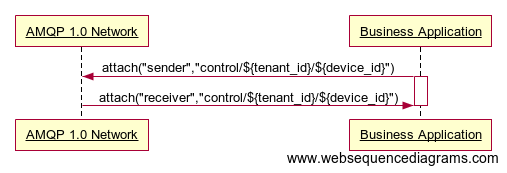
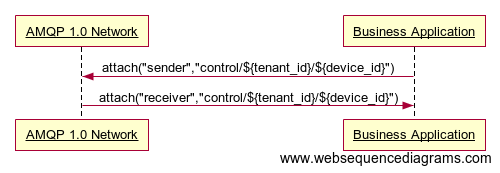
Update Command & Control API to reflect usage of disposition frames.

diff --git a/site/content/api/Command-And-Control-API.md b/site/content/api/Command-And-Control-API.md
@@ -3,140 +3,109 @@ title = "Command & Control API"
 weight = 415
 +++
 
-The *Command and Control* API is used by *Business Applications* to send **command** or **notification command** messages to devices connected to Hono. 
+The *Command & Control* API of Eclipse Hono&trade; is used by *Business Applications* to send commands to connected devices.
 
-**Command** messages can be used to execute operations on devices, e.g. updating a configuration property, installing a software component or activating an actuator.
-Commands are bidirectional, i.e. a device receiving a command is expected to send a response to it.
-
-**Notification command** messages are unidirectional and cannot be responded.
+Commands can be used to trigger actions on devices. Examples include updating a configuration property, installing a software component or switching the state of an actuator.
 <!--more-->
 
-{{% note %}}
-This API has been added in Hono 0.6. Previous versions do not support nor implement the Command & Control API.
-The notification commands are fully specified and the implementation will be added during the development of Hono 0.8.
-{{% /note %}}
+Hono distinguishes two types of commands. The first type is *one-way* only. In this case the sender of the command does not expect the device to send back a message in response to the command. This type of command is referred to as a *one-way command* in the remainder of this page. One-way commands may be used to e.g. *notify* a device about a change of state.
+
+The second type of commands expects a *response* to be sent back from the device as a result of processing the command. In this case the response contains a *status* code which indicates whether the command could be processed successfully. If so, the response may also include data representing the result of processing the command. This type of command is plainly referred to as a *command* because it represents the default case.
 
 The Command & Control API is defined by means of AMQP 1.0 message exchanges, i.e. a client needs to connect to Hono using AMQP 1.0 in order to invoke operations of the API as described in the following sections. Throughout the remainder of this page we will simply use AMQP when referring to AMQP 1.0.
 
-There is also a description of Command & Control [at the conceptual level]({{< relref "/concepts/command-and-control.md" >}}) 
-and the [Getting Started]({{< ref "getting-started" >}}) guide contains a walk through example.
+There is also a description of Command & Control [at the conceptual level]({{< ref "/concepts/command-and-control.md" >}}) 
+and the [Getting Started]({{< ref "/getting-started.md" >}}) guide contains a walk through example.
 
-# Preconditions
-## Preconditions for sending a command or notification command
-
-1. The *Business Application* has established an AMQP connection with the AMQP 1.0 Network.  
-2. The *Business Application* has established an AMQP link in role *sender* with the target address `control/${tenant_id}/${device_id}`, where `${device_id}` is the ID of the device to send messages to and `${tenant_id}` is the ID of the tenant that the device belongs to.
-
-**Link establishment**
-
-The following sequence diagram shows the necessary links that need to be established:
-
-![Send Command Preconditions](../command_control_send_preconditions.png)
-
-## Preconditions for receiving a command response
-
-*Command* messages (in contrast to *notification command* messages) need to be responded by the device. For this purpose,
-the *Business Application* needs to open a receiver link as precondition: 
-
-1. The *Business Application* has established an AMQP link in role *receiver* with the source address `control/${tenant_id}/${reply-id}`.
-This link is used by the *Business Application* to receive the response of the executed command. This link’s source address is also referred to as `the reply-to address` for the request messages. 
-2. The `${reply-id}` may be any arbitrary string chosen by the client. 
-
-### Choosing a strategy for building the receiver link address
-
-While the `${reply-id}` can be completely chosen by the client, the specific use case for sending commands may influence 
-how it should be set.
-Thus following hints for choosing the right `${reply-id}` may be helpful:
-
-- if only one command response is expected from the device, the `${reply-id}` could be set to the `${device_id}` plus an arbitrary string to scope the command sender instance and closed again after receiving the response.
-- if several command responses are expected from the device (e.g. since multiple commands were or will be sent to it), such a link should usually remain open after the reception of any response. 
-- if all command responses for the `${tenant_id}` shall be received in the application,  the `${reply-id}` could be set to just an arbitrary (short) string to scope the command sender instance (without the `${device_id}`). Such a link should usually remain open after the reception of any response.
-
-
-**Link establishment**
-
-The following sequence diagram shows the necessary links that need to be established to enable sending a command response to the Business Application:
-
-![Send Command](../command_control_receive_preconditions.png)
-
-# Outcomes for sending a command or notification command
-Commands and notification commands that are forwarded by the AMQP 1.0 network to a protocol adapter need to be responded with one of the following outcomes:
-
-| Processing in protocol adapter                         | AMQP outcome                  |
-|--------------------------------------------------------|------------------------------ |
-| Bad command                                            | Rejected ("hono:bad-request") |
-| Device not connected (anymore)                         | Release                       | 
-| Command approved (will be tried to deliver to device)  | Accepted                      | 
-
-Depending on the strategy for the receiver link address (see [Strategy for building the receiver link address]({{< relref "#choosing-a-strategy-for-building-the-receiver-link-address">}}) ), the *Business application* may want to close the response receiver
-link again if the outcome was not set to `Accepted`.
+{{% note %}}
+The Command & Control API has been added in Hono 0.6. Prior versions do neither support nor implement it. One-way commands have been added in Hono 0.8.
+{{% /note %}}
 
 
 # Operations
 
-The following API defines operations that can be used by *Business Applications* to send commands (which get a response 
-in return) or notification commands to devices over an AMQP 1.0 Network.
+The following API defines operations that can be used by *Business Applications* to send commands to devices over an AMQP 1.0 Network.
 
-## Send a Notification Command
+## Send a One-Way Command
 
-Business Applications use this operation to send a notification command to a device.
+Business Applications use this operation to send a command to a device for which they do not expect to receive a response from the device.
 
-A notification command cannot be responded by the device so the result of this operation is purely based on the outcome of sending
-it to the AMQP 1.0 network (see [Outcomes]({{< relref "#outcomes-for-sending-a-command-or-notification-command">}})).
- 
-Note that the outcome is usually determined by the receiving protocol adapter, which is omitted here for simplicity.
+**Preconditions**
 
-To send a notification command to a device, the first precondition needs to be fulfilled.
+1. The *Business Application* has established an AMQP connection with the AMQP 1.0 Network.
+2. The *Business Application* has established an AMQP link in role *sender* with the target address `control/${tenant_id}/${device_id}`, where `${device_id}` is the ID of the device to send messages to and `${tenant_id}` is the ID of the tenant that the device belongs to.
 
-The following sequence diagram shows the message flow with a successful outcome:
+The following sequence diagram illustrates the establishment of the required link:
 
-![Send Notification Command successful outcome](../command_control_notification_Success.png)
-
-The following sequence diagram shows the message flow with an unsuccessful outcome:
-
-![Send Notification Command unsuccessful outcome](../command_control_notification_Unsuccessful_outcome.png)
+![Send One-Way Command Preconditions](../command_control_send_preconditions.png)
 
 **Message Format**
 
-The following table provides an overview of the properties the *Business Application* needs to set on a notification command message.
+The following table provides an overview of the properties the *Business Application* needs to set on a one-way command message.
 
 | Name             | Mandatory | Location                 | Type         | Description |
 | :--------------- | :-------: | :----------------------- | :----------- | :---------- |
-| *subject*        | yes       | *properties*             | *string*     | MUST contain the notification command name to be executed by a device. |
+| *subject*        | yes       | *properties*             | *string*     | The name of the command to be executed by the device. |
 | *content-type*   | no        | *properties*             | *string*     | If present, MUST contain a *Media Type* as defined by [RFC 2046](https://tools.ietf.org/html/rfc2046) which describes the semantics and format of the command's input data contained in the message payload. However, not all protocol adapters will support this property as not all transport protocols provide means to convey this information, e.g. MQTT 3.1.1 has no notion of message headers. |
-| *message-id*     | yes       | *properties*             | *string*     | MUST contain an identifier that uniquely identifies the message at the sender side. |
+| *message-id*     | yes       | *properties*             | *string*     | An identifier that uniquely identifies the message at the sender side. |
 
-The following property must **NOT** be set for a notification command message (to distinguish it from a command message):
+The command message MAY contain arbitrary payload to be sent to the device in a single AMQP *Data* section. The value of the message's *subject* property may provide a hint to the device regarding the format, encoding and semantics of the payload data.
 
-| Name             | Mandatory       | Location                 | Type         |
-| :--------------- | :---------------| :----------------------- | :----------- |
-| *reply-to*       | must NOT be set | *properties*             | *string*     |
+Hono indicates the outcome of the operation by means of the following AMQP delivery states:
+
+| Delivery State | Description                                      |
+| :------------- | :----------------------------------------------- |
+| `accepted`    | The command has been delivered to the device for processing. |
+| `released`    | The command has not been delivered to the device because the device is (currently) not connected. |
+| `rejected`    | The command has not been delivered to the device because it does not contain all required information. |
+
+**Note** that Hono relies on the particular protocol adapter to deliver commands to devices. Depending on the used transport protocol and the adapter's implementation, the `accepted` outcome may thus indicate any of the following:
+
+- An *attempt* has been made to deliver the command to the device. However, it is unclear if the device has received (or processed) the command.
+- The device has acknowledged the reception of the command but has not processed the command yet.
+- The device has received and processed the command.
+
+**Examples**
+
+The following sequence diagram shows the successful delivery of a command to a device:
+
+![Successfully send a One-Way Command](../command_control_one_way_success.png)
+
+The following sequence diagram shows how the delivery of a command fails because the device is not connected:
+
+![Device not connected](../command_control_device_not_connected.png)
+
+The following sequence diagram illustrates how a malformed command sent by a *Business Application* gets rejected:
+
+![Malformed Command message](../command_control_malformed_message.png)
 
 
-A notification command message MAY contain arbitrary payload to be sent to the device in an AMQP Data section. The value of the notification command message's *subject* value may provide a hint to the device regarding the format, encoding and semantics of the payload data.
+
+## Send a (Request/Response) Command
+
+*Business Applications* use this operation to send a command to a device for which they expect the device to send back a response.
 
 
+**Preconditions**
 
+<a name="receiver-link-precondition"></a>
 
-## Send a Command
+1. The *Business Application* has established an AMQP connection with the AMQP 1.0 Network.
+2. The *Business Application* has established an AMQP link in role *sender* with the target address `control/${tenant_id}/${device_id}`, where `${device_id}` is the ID of the device to send messages to and `${tenant_id}` is the ID of the tenant that the device belongs to.
+3. The *Business Application* has established an AMQP link in role *receiver* with the source address `control/${tenant_id}/${reply_id}`.
+This link is used by the *Business Application* to receive the response to the command from the device. This link’s source address is also used as the `reply-to` address for the request messages. The `${reply_id}` may be any [arbitrary string]({{< relref "#strategies-for-building-the-receiver-link-address" >}}) chosen by the application.
 
-Business Applications use this operation to send a command to a device.
-Depending on the outcome of sending the command to the AMQP 1.0 network, the application either expects a response from the device 
-(to the response receiver link) or closes the receiver link again.
+**Link establishment**
 
-Note that the outcome is usually determined by the receiving protocol adapter, which is omitted here for simplicity.
+The following sequence diagram illustrates the establishment of the required sender link:
 
-To send a command to a device, both preconditions need to be fulfilled.
+![Send Command Preconditions](../command_control_send_preconditions.png)
 
-The following sequence diagram shows the message flow with a successful outcome:
+The following sequence diagram illustrates the establishment of the required receiver link:
 
-![Send Command successful outcome](../command_control_Success.png)
+![Receive Response Preconditions](../command_control_receive_preconditions.png)
 
-The following sequence diagram shows the message flow with an unsuccessful outcome:
-
-![Send Command unsuccessful outcome](../command_control_Unsuccessful_outcome.png)
-
-**Message Format**
+**Command Message Format**
 
 The following table provides an overview of the properties the *Business Application* needs to set on a command message.
 
@@ -146,21 +115,28 @@ The following table provides an overview of the properties the *Business Applica
 | *content-type*   | no        | *properties*             | *string*     | If present, MUST contain a *Media Type* as defined by [RFC 2046](https://tools.ietf.org/html/rfc2046) which describes the semantics and format of the command's input data contained in the message payload. However, not all protocol adapters will support this property as not all transport protocols provide means to convey this information, e.g. MQTT 3.1.1 has no notion of message headers. |
 | *correlation-id* | no        | *properties*             | *message-id* | If present, MUST contain an ID used to correlate a response message to the original request. If set, it is used as the *correlation-id* property in the response, otherwise the value of the *message-id* property is used. |
 | *message-id*     | yes       | *properties*             | *string*     | MUST contain an identifier that uniquely identifies the message at the sender side. |
-| *reply-to*       | yes       | *properties*             | *string*     | MUST contain the source address that the client wants to receive response messages from. This address MUST be the same as the source address used for establishing the client's receive link (see [Preconditions]({{< relref "#preconditions" >}})). |
+| *reply-to*       | yes       | *properties*             | *string*     | MUST contain the source address that the application wants to receive the response from. This address MUST be the same as the source address used for establishing the client's receiver link (see [Preconditions]({{< relref "#receiver-link-precondition" >}}) above). |
 
-A command message MAY contain arbitrary payload to be sent to the device in an AMQP Data section. The value of the command message's *subject* value may provide a hint to the device regarding the format, encoding and semantics of the payload data.
+The command message MAY contain arbitrary payload to be sent to the device in a single AMQP *Data* section. The value of the command message's *subject* value may provide a hint to the device regarding the format, encoding and semantics of the payload data.
 
-## Receiving the Command's execution result
+Hono uses following AMQP delivery states to indicate the outcome of sending the command to the device:
 
-After execution of a command on a device, the device MUST send a response message indicating the outcome of executing the command.
+| Delivery State | Description                                      |
+| :------------- | :----------------------------------------------- |
+| `accepted`    | The command has been delivered to the device for processing. |
+| `released`    | The command has not been delivered to the device because the device is (currently) not connected. |
+| `rejected`    | The command has not been delivered to the device because it does not contain all required information. |
 
-**Message Format**
+**Note** that Hono relies on the particular protocol adapter to deliver commands to devices. Depending on the used transport protocol and the adapter's implementation, the `accepted` outcome may thus indicate any of the following:
 
-The following sequence diagram shows the message flow of a command response with a successful outcome:
+- An *attempt* has been made to deliver the command to the device. However, it is unclear if the device has received (or processed) the command.
+- The device has acknowledged the reception of the command but has not processed the command yet.
 
-![Send Command response successful](../command_control_response_Success.png)
+An application can determine the overall outcome of the operation by means of the response to the command that is sent back by the device. An application should consider execution of a command to have failed, if it does not receive a response within a reasonable amount of time.
 
-The following table provides an overview of the properties set on a Command's response message.
+**Response Message Format**
+
+The following table provides an overview of the properties set on a message sent in response to a command.
 
 | Name             | Mandatory | Location                 | Type         | Description |
 | :--------------- | :-------: | :----------------------- | :----------- | :---------- |
@@ -168,14 +144,34 @@ The following table provides an overview of the properties set on a Command's re
 | *correlation-id* | yes       | *properties*             | *message-id* | MUST contain the correlation ID used to match the command message with the response message containing the result of execution on the device. |
 | *status*         | yes       | *application-properties* | *integer*    | MUST indicate the status of the execution. See table below for possible values. |
 
-The status property must contain a valid HTTP status code: <a name="status"></a>
+The *status* property must contain a valid HTTP status code: <a name="status"></a>
 
 | Code | Description |
 | :--- | :---------- |
-| *2xx* | The command has been processed successfully. The semantics of the individual codes are specific to the adapter and device, which are involved in the processing of the command. |
-| *4xx* | The command could not be processed due to a client error, e.g. malformed message payload. The semantics of the individual codes are specific to the adapter and device, which are involved in the processing of the command. |
-| *5xx* | The command could not be processed due to a problem at the device side. The semantics of the individual codes are specific to the adapter and device, which are involved in the processing of the command. |
+| *2xx* | The command has been processed successfully. |
+| *4xx* | The command could not be processed due to a client error, e.g. malformed message payload. |
+| *5xx* | The command could not be processed due to a problem at the device side, e.g. device is not connected. |
 
-For status codes indicating an error (codes in the `400 - 599` range) the message body MAY contain a detailed description of the error that occurred.
+The semantics of the individual codes are specific to the device and command. For status codes indicating an error (codes in the `400 - 599` range) the message body MAY contain a detailed description of the error that occurred.
 
-If a command message response contains a payload, the body of the message MUST consist of a single AMQP *Data* section containing the response message data. 
+If a command message response contains a payload, the body of the message MUST consist of a single AMQP *Data* section containing the response message data.
+
+**Examples**
+
+The following sequence diagram illustrates how a *Business Application* sends a command and receives the response from the device:
+
+![Successfully send a Command](../command_control_success.png)
+
+The sending of a command may fail for the same reasons as those illustrated for sending a one-way command. Additionally, the sending of a command may be considered unsuccessful by an application if it does not receive the response from the device in a reasonable amount of time:
+
+![Command times out](../command_control_response_time_out.png)
+
+
+## Strategies for Building the Receiver Link Address
+
+While the `${reply_id}` may be chosen arbitrarily by the client, the specific use case for sending commands should be considered when doing so.
+The following hints might help with creating an appropriate `${reply_id}`:
+
+- if only one command response is expected from the device, the `${reply_id}` could be set to the `${device_id}` plus an arbitrary string to scope the command sender instance and closed again after receiving the response.
+- if several command responses are expected from the device (e.g. since multiple commands were or will be sent to it), such a link should usually remain open after the reception of any response. 
+- if all command responses for the `${tenant_id}` shall be received in the application, the `${reply_id}` could be set to just an arbitrary (short) string to scope the command sender instance (without the `${device_id}`). Such a link should usually remain open after the reception of any response.
